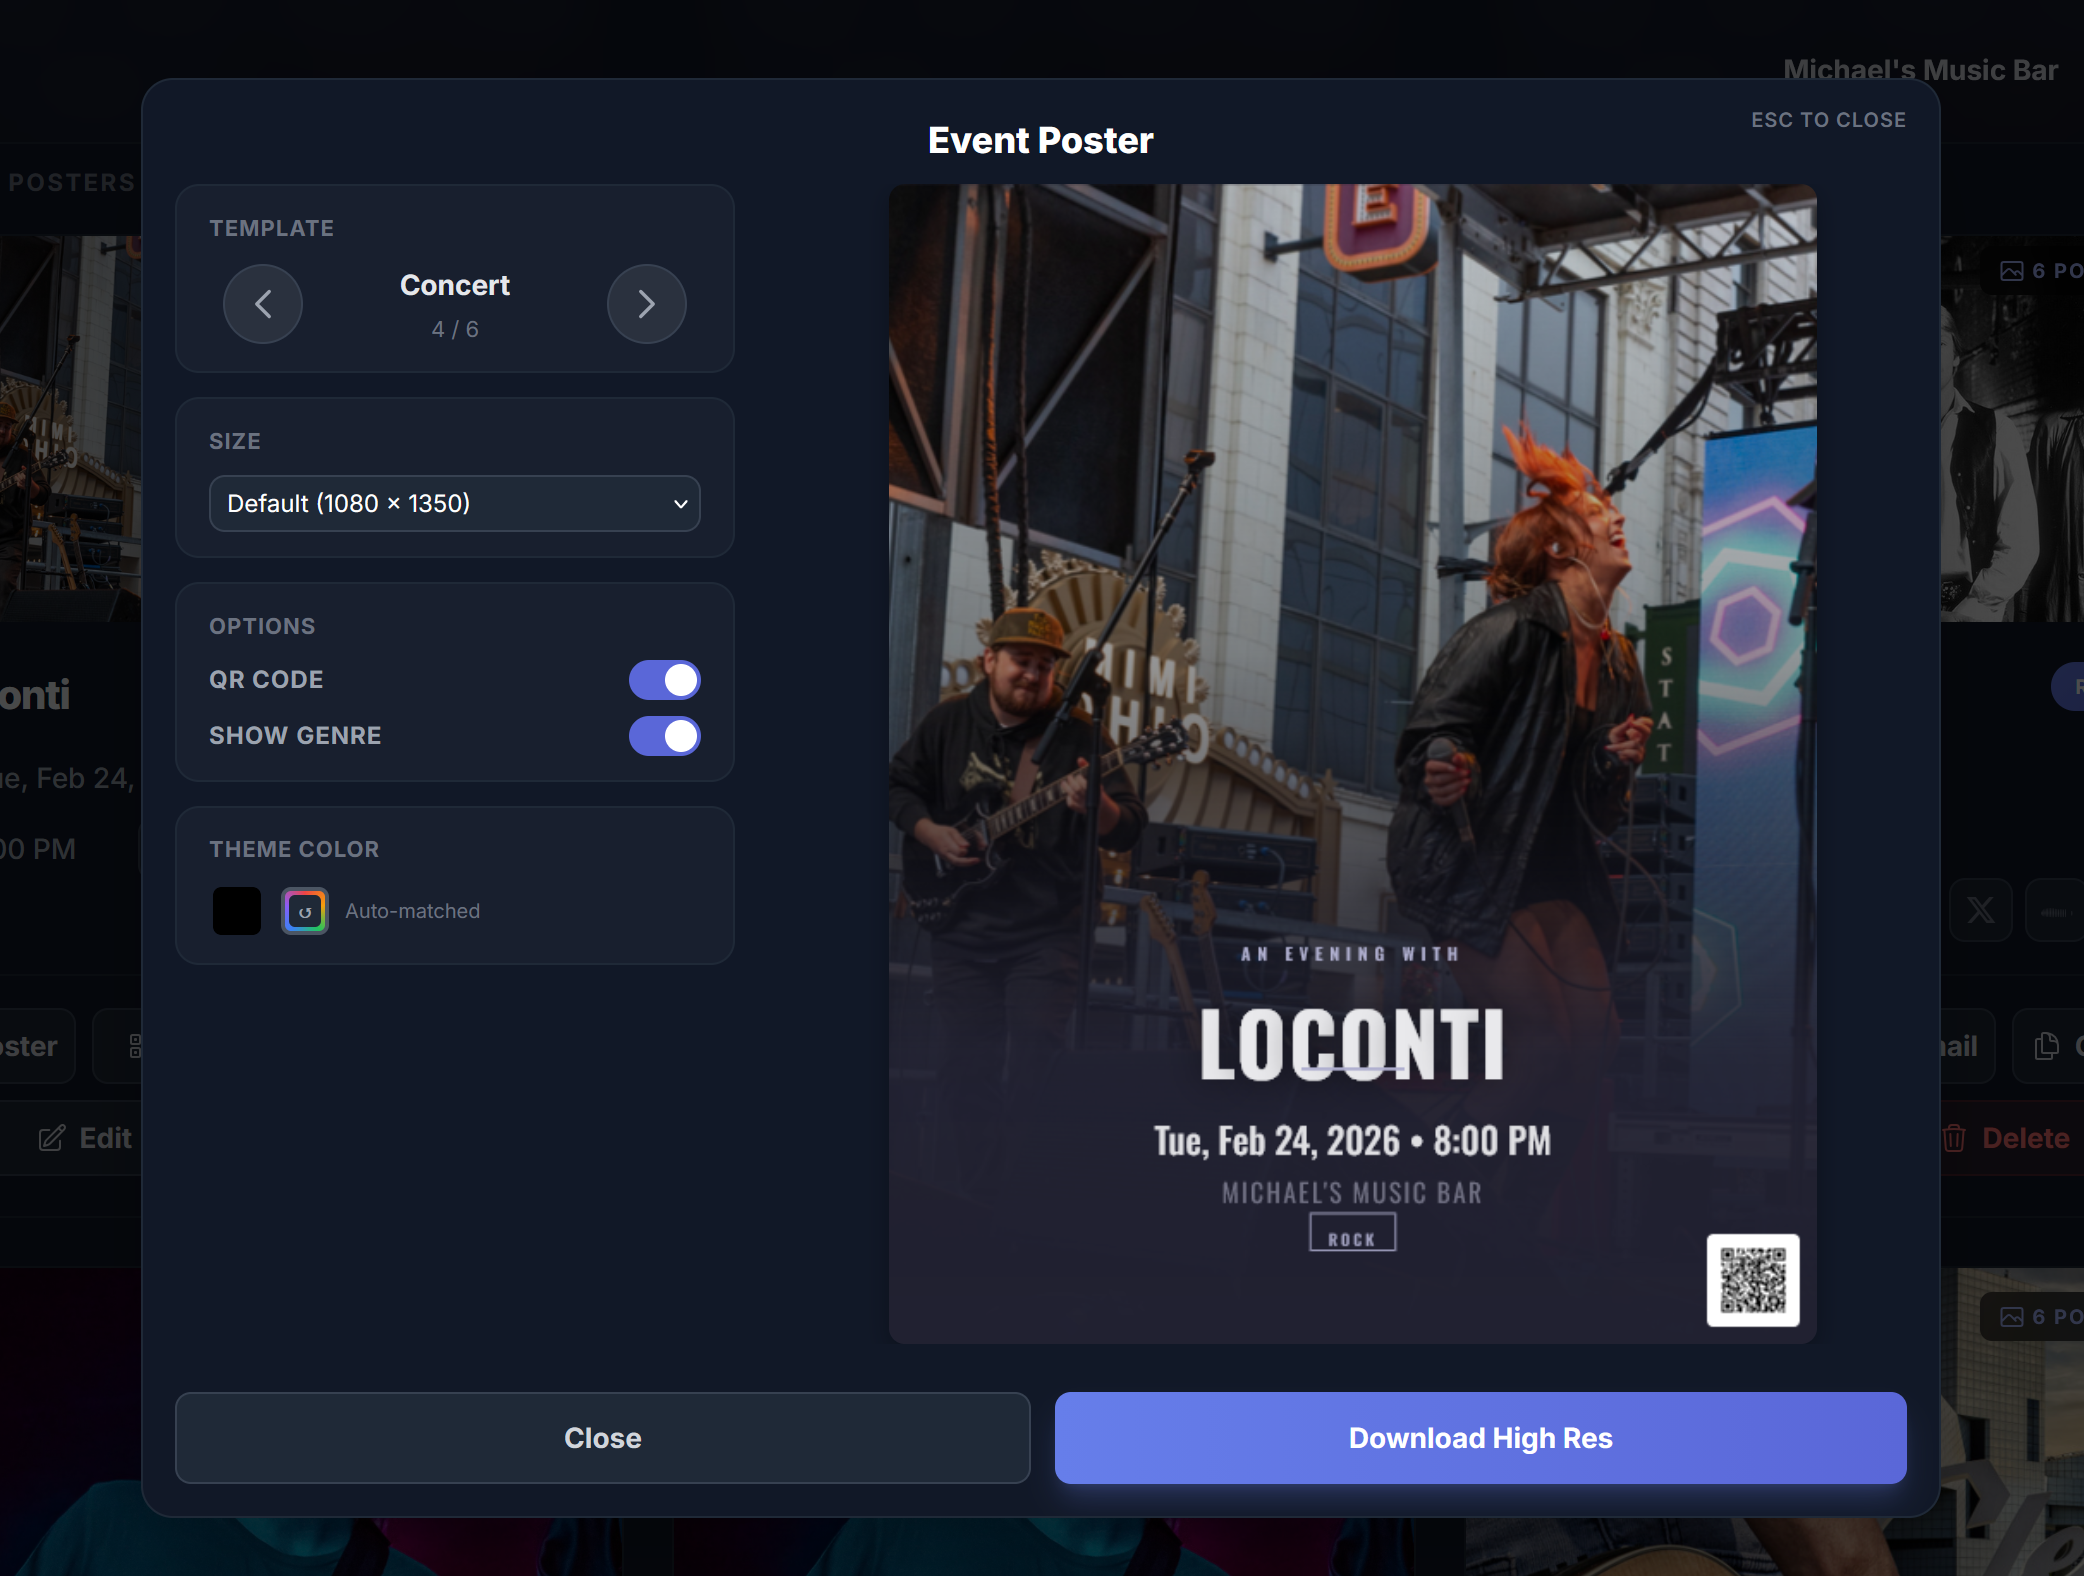
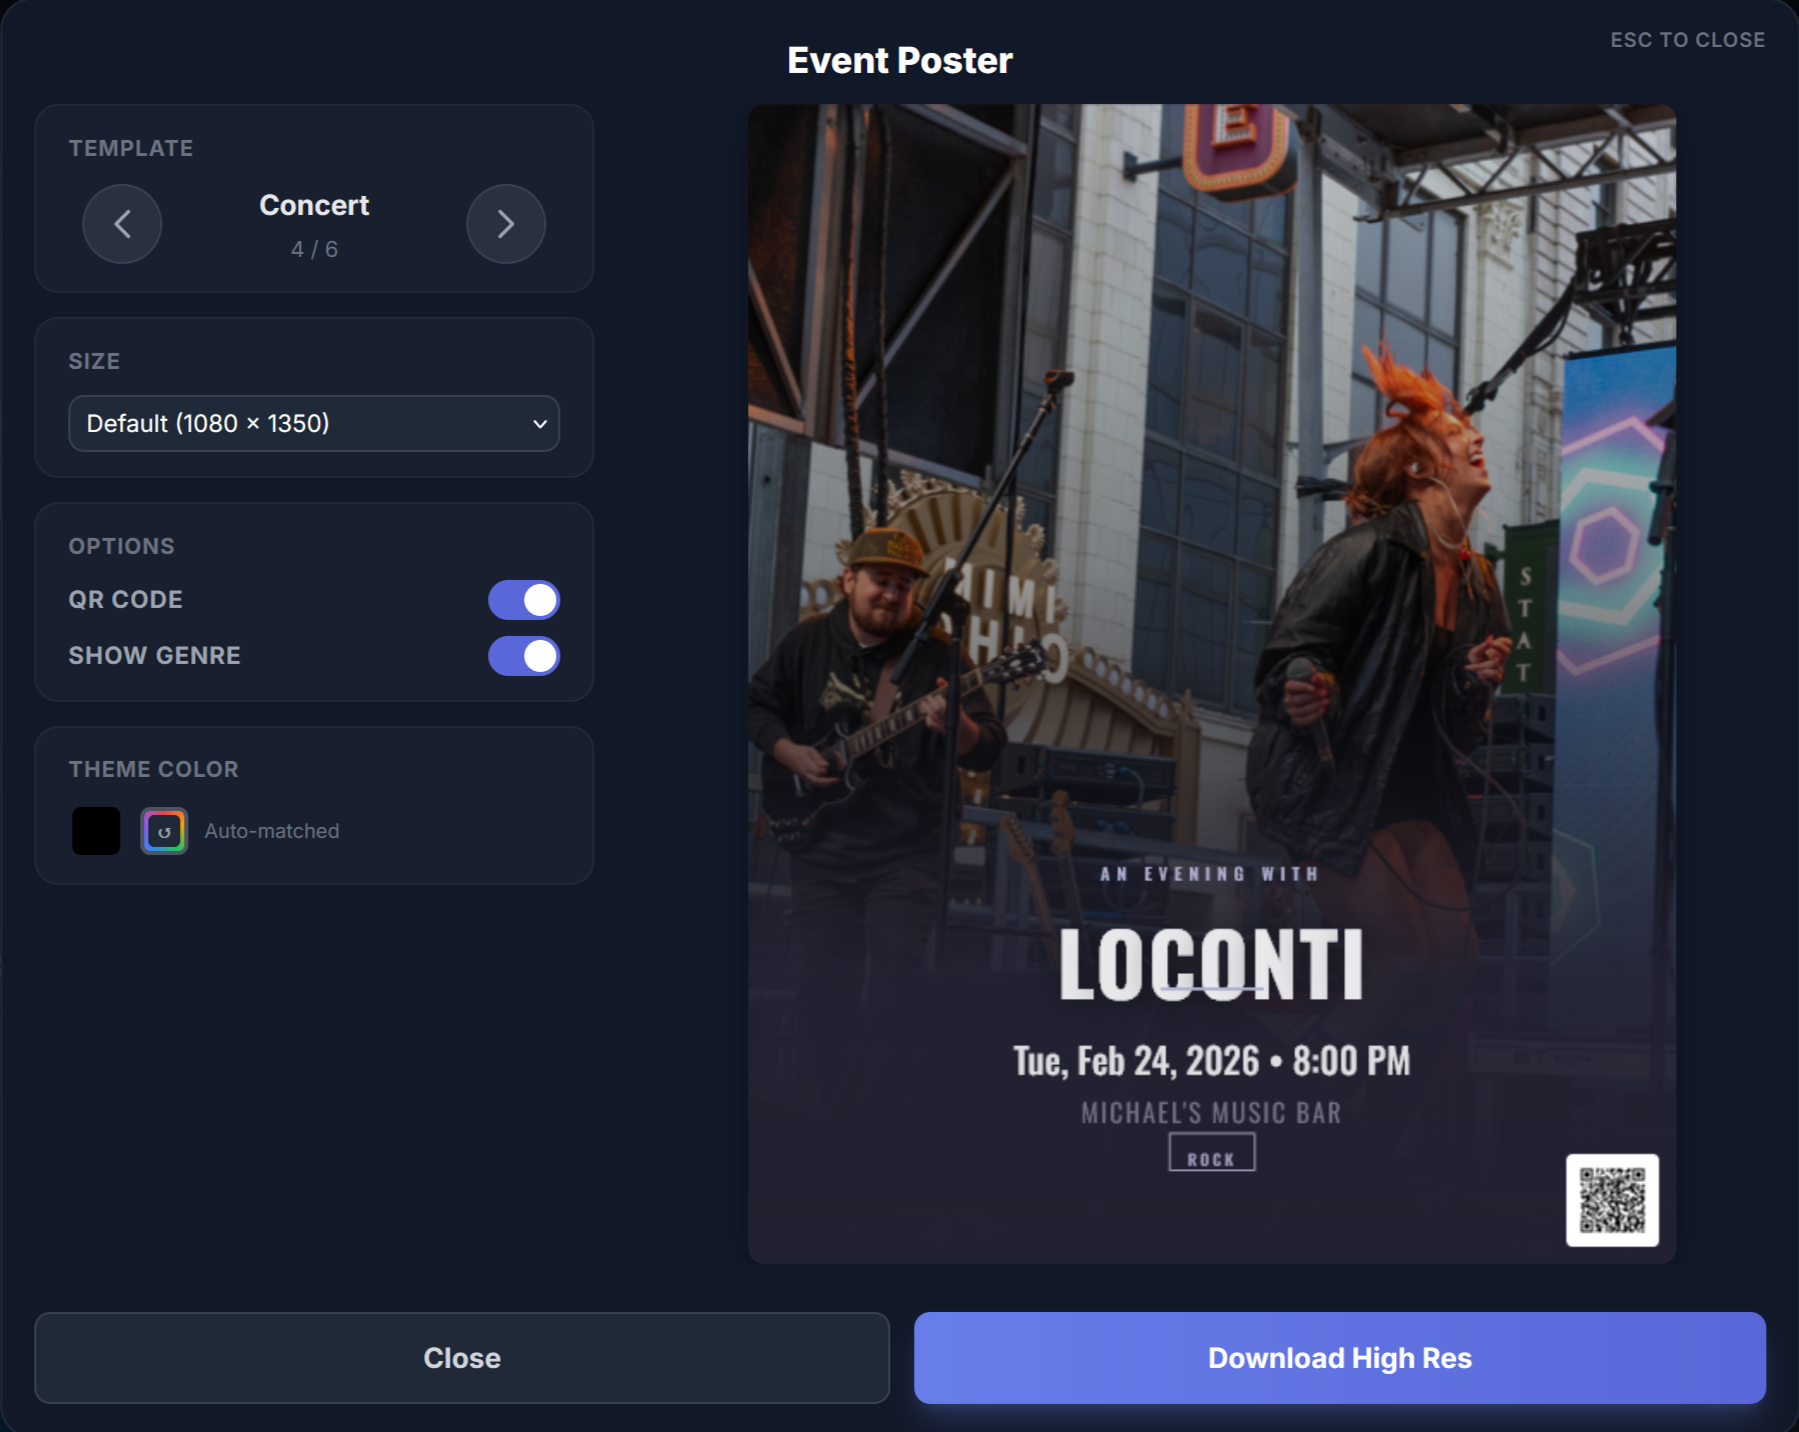
Update screenshot crops, add Social Poster feature card, clean up event page preview
- Swap Step 01 screenshot to add-event.png
- Update poster.png and widget.png with new crops
- Remove black phone mockup frame from event page preview (show image directly)
- Add Social Poster feature card with floating "Coming Soon" badge
- Update feature grid layout for 8 cards

diff --git a/public/index.html b/public/index.html
@@ -118,7 +118,7 @@
                                 <span class="browser-dot"></span>
                                 <span class="browser-dot"></span>
                             </div>
-                            <img src="screenshots/dashboard.png" alt="OnTonite Dashboard — Add Your Event">
+                            <img src="screenshots/add-event.png" alt="OnTonite — Add Your Event">
                         </div>
                     </div>
                 </div>
@@ -248,6 +248,14 @@
                     <h3 class="feature-title">Subscriber Growth</h3>
                     <p class="feature-desc">Every show builds your list. Fans subscribe from your website, event pages, and email footers. Your audience grows on autopilot.</p>
                 </div>
+                <div class="feature-card fade-in">
+                    <span class="badge-coming-soon">Coming Soon</span>
+                    <div class="feature-icon">
+                        <svg viewBox="0 0 24 24" fill="none" stroke="currentColor" stroke-width="1.5" stroke-linecap="round" stroke-linejoin="round"><path d="M18 2h-3a5 5 0 00-5 5v3H7v4h3v8h4v-8h3l1-4h-4V7a1 1 0 011-1h3z"/></svg>
+                    </div>
+                    <h3 class="feature-title">Social Poster</h3>
+                    <p class="feature-desc">Auto-generate social-ready poster images with pre-written captions. Download and share to Instagram, Facebook, and more in seconds.</p>
+                </div>
             </div>
         </div>
     </section>
@@ -284,8 +292,7 @@
                     </div>
                 </div>
                 <div class="screenshot-row">
-                    <div class="phone-mockup fade-in">
-                        <div class="phone-notch"></div>
+                    <div class="phone-preview fade-in">
                         <img src="screenshots/event-page.PNG" alt="QR Event Page — Mobile View">
                     </div>
                     <div class="browser-mockup fade-in">

diff --git a/public/styles.css b/public/styles.css
@@ -629,9 +629,17 @@ strong {
         grid-template-columns: repeat(3, 1fr);
     }
 
-    /* Center the 7th (orphan) card */
-    .feature-card:last-child:nth-child(3n + 1) {
+    /* Center orphan cards in last row */
+    .features-grid > .feature-card:last-child:nth-child(3n + 1) {
         grid-column: 2;
+    }
+
+    .features-grid > .feature-card:nth-last-child(2):nth-child(3n + 1) {
+        grid-column: 2;
+    }
+
+    .features-grid > .feature-card:nth-last-child(2):nth-child(3n + 1) ~ .feature-card {
+        grid-column: 3;
     }
 }
 
@@ -1046,6 +1054,27 @@ strong {
 .feature-card.fade-in:nth-child(5) { transition-delay: 0.32s; }
 .feature-card.fade-in:nth-child(6) { transition-delay: 0.4s; }
 .feature-card.fade-in:nth-child(7) { transition-delay: 0.48s; }
+.feature-card.fade-in:nth-child(8) { transition-delay: 0.56s; }
+
+/* Coming Soon badge */
+.badge-coming-soon {
+    position: absolute;
+    top: 1rem;
+    right: 1rem;
+    background: linear-gradient(135deg, var(--accent) 0%, #5a67d8 100%);
+    color: #fff;
+    font-size: 0.6875rem;
+    font-weight: 700;
+    text-transform: uppercase;
+    letter-spacing: 0.06em;
+    padding: 0.3rem 0.65rem;
+    border-radius: 20px;
+    line-height: 1;
+}
+
+.feature-card {
+    position: relative;
+}
 
 /* ========================================
    RESPONSIVE
@@ -1179,6 +1208,22 @@ strong {
     height: auto;
     display: block;
     border-radius: 22px;
+}
+
+/* ========================================
+   PHONE PREVIEW (no frame)
+   ======================================== */
+.phone-preview {
+    max-width: 300px;
+    margin: 0 auto;
+}
+
+.phone-preview img {
+    width: 100%;
+    height: auto;
+    display: block;
+    border-radius: 24px;
+    box-shadow: 0 8px 32px rgba(0, 0, 0, 0.3);
 }
 
 /* ========================================
